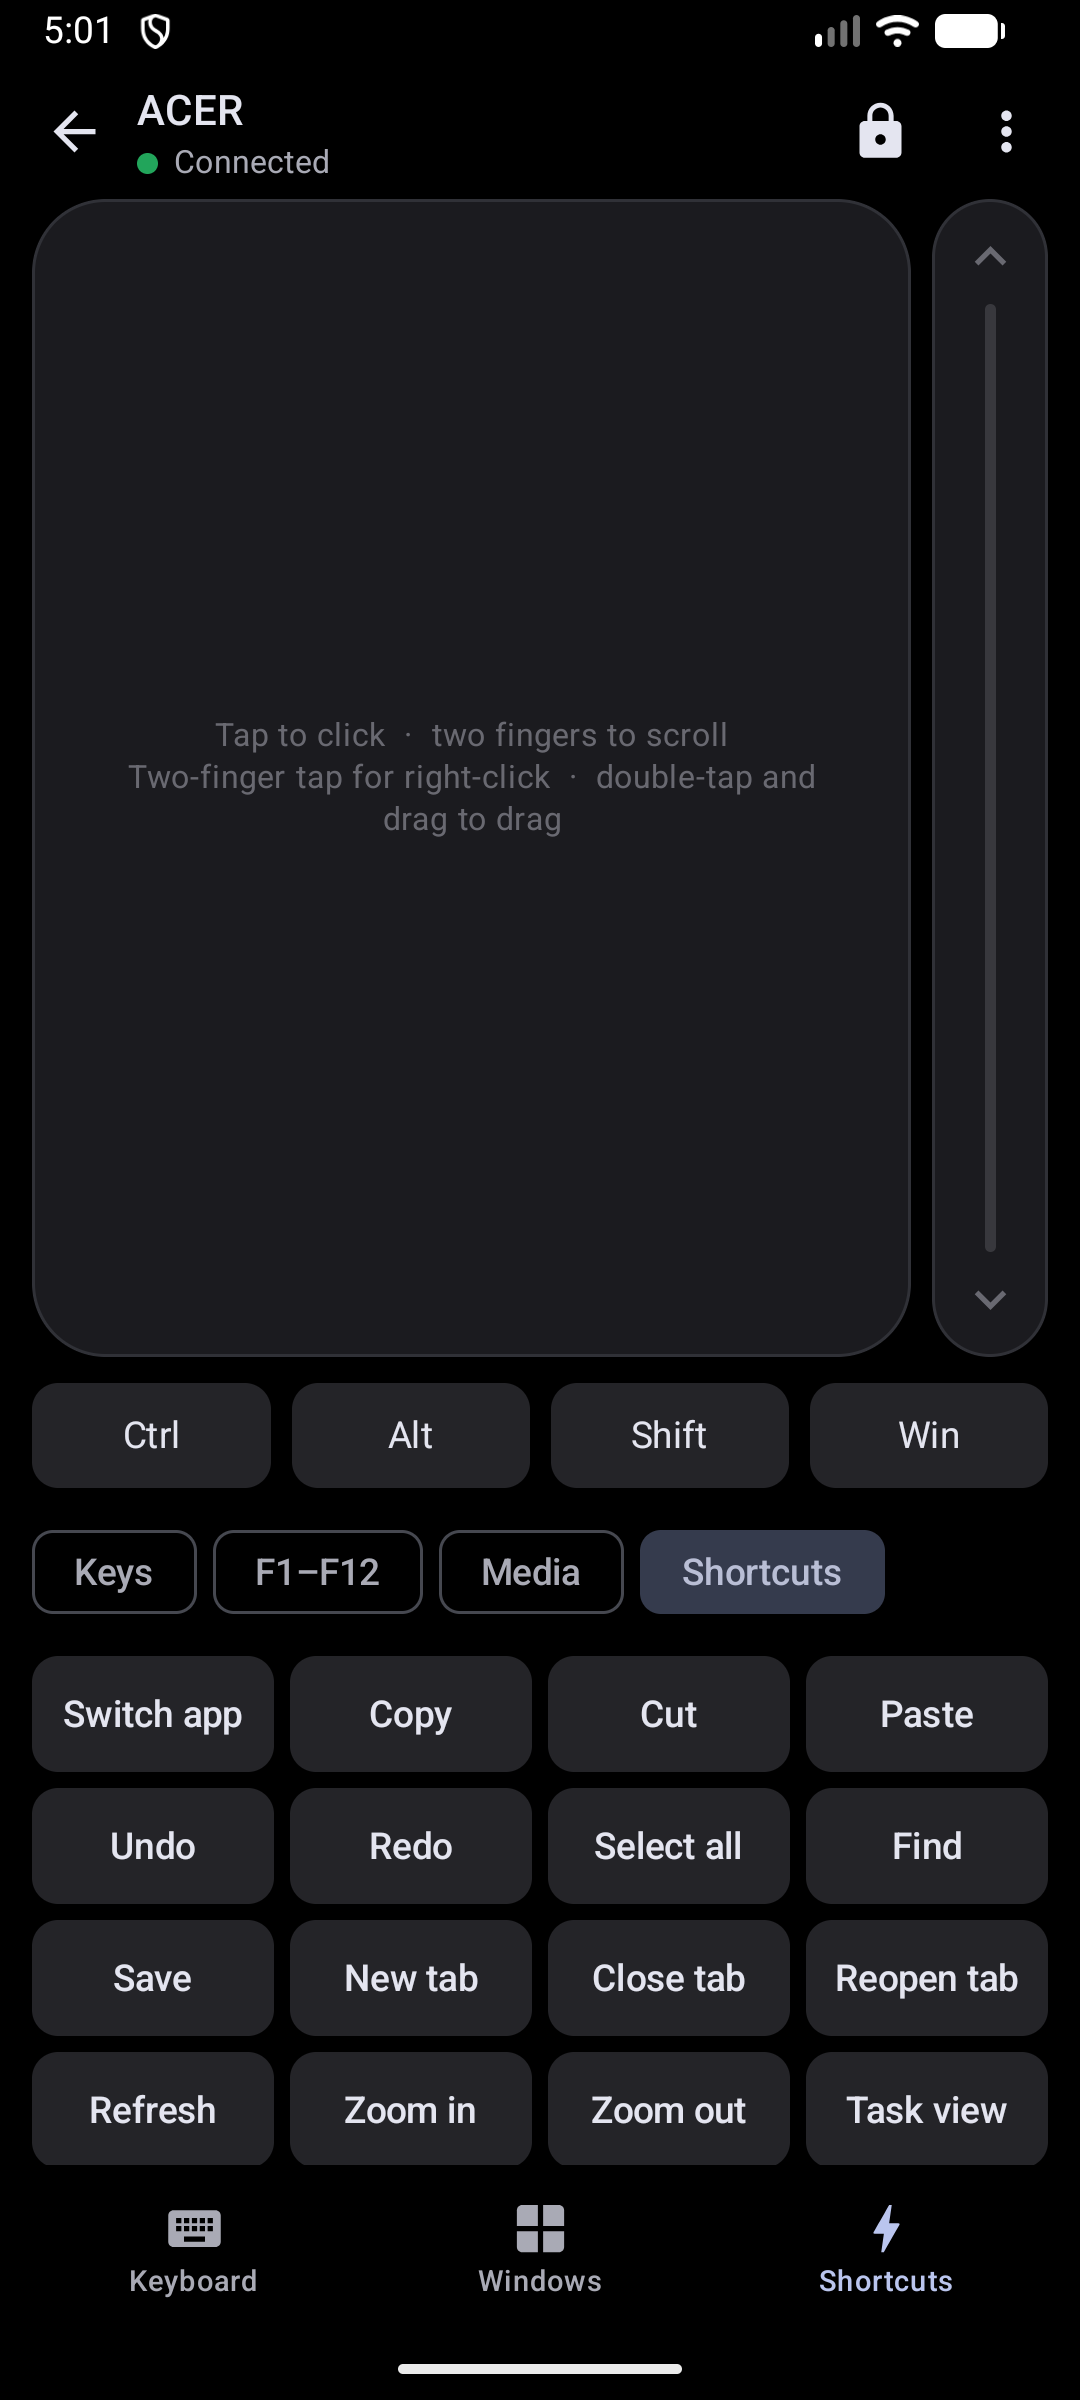
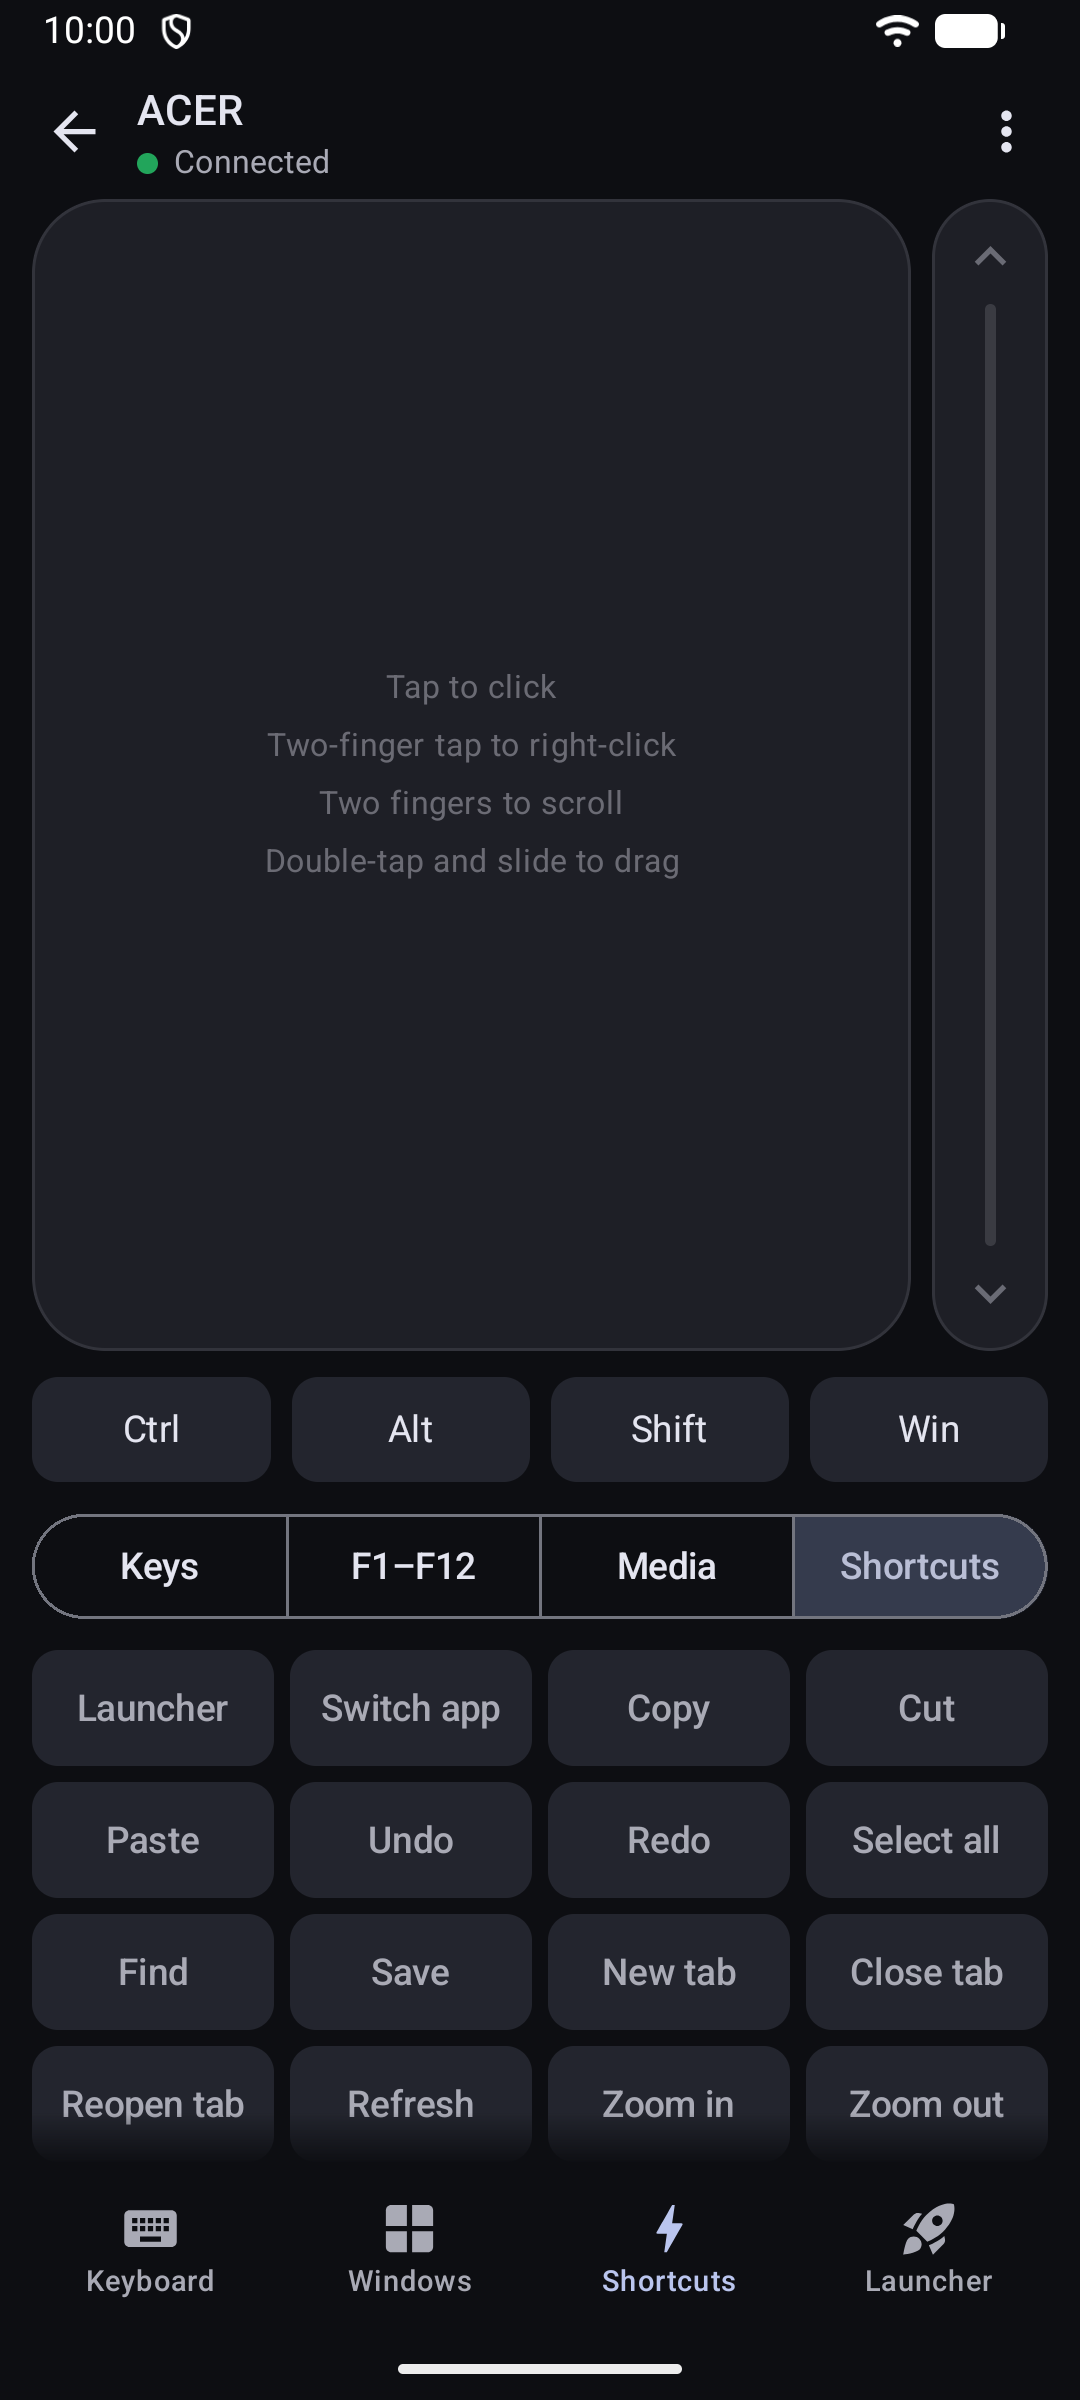
Release 1.1.0: bump versions, refresh screenshots and docs (#17)
- Bump the Android app to 1.1.0 (versionCode 2) and the Windows app to 1.1.0.0.
- Retake the README pictures from the current apps, and add the lock screen
  media controls and the shortcut editor.
- Document in-app updates, closing the keyboard on Enter, building, and how
  releases are put together.

diff --git a/windows/src/Program.cs b/windows/src/Program.cs
@@ -14,8 +14,8 @@ using System.Windows.Forms;
 [assembly: AssemblyTitle("RomCon")]
 [assembly: AssemblyProduct("RomCon")]
 [assembly: AssemblyDescription("Control this PC from your Android phone")]
-[assembly: AssemblyVersion("1.0.0.0")]
-[assembly: AssemblyFileVersion("1.0.0.0")]
+[assembly: AssemblyVersion("1.1.0.0")]
+[assembly: AssemblyFileVersion("1.1.0.0")]
 
 namespace RomCon
 {

diff --git a/docs/guide.md b/docs/guide.md
@@ -4,6 +4,7 @@ Everything the [README](../README.md) leaves out.
 
 - [Features](#features)
 - [Managing phones](#managing-phones)
+- [Updates](#updates)
 - [Tailscale](#tailscale)
 - [Security](#security)
 - [Limitations](#limitations)
@@ -22,14 +23,20 @@ Everything the [README](../README.md) leaves out.
 ### Bottom bar
 
 - Keyboard, Windows key and Shortcuts sit under the pad by default.
-- Choose your own buttons, up to five, and their order in Settings: Keys, Send text, Switch app, Task View, Show desktop, Esc, Enter, Copy, Paste, play/pause, volume, and Left / Right / Middle click (hold one and move with another finger to drag).
+- Choose your own buttons, up to five, and their order in Settings: Keys, Send text, Switch app, Task View, Show desktop, Esc, Enter, Copy, Paste, play/pause, volume, mute, and Left / Right / Middle click (hold one and move with another finger to drag).
 - Make your own buttons under Settings, Bottom bar, Your shortcuts. Each one presses a hotkey you pick on the PC, such as Alt+Space to open Flow Launcher or Raycast. It can also press several hotkeys one after another, like Ctrl+K then Ctrl+C, with a wait of up to a minute between any two: F12, half a second, then F8, say. While a button waits, it stays lit; tap it again to stop it. The keys you can pick are Ctrl, Alt, Shift and Win with any letter, number, F1–F24, symbol, number-pad, arrow, editing or media key. A modifier key can also be pressed on its own.
 - Give a button a name and an icon: one of the built-in icons, or a picture from your phone, such as the app's logo. A new button goes on the bar if there's room. Your buttons also appear at the start of the Shortcuts panel, so ones that don't fit on the bar are still a tap away.
+
+<p align="center">
+  <img src="images/phone-shortcut-editor.png" width="250" alt="Editing a shortcut named Launcher: it presses Alt+Space and has a rocket icon">
+</p>
+<p align="center"><em>A shortcut that opens a launcher with Alt+Space.</em></p>
 
 ### Keyboard
 
 - The phone keyboard types straight into the PC. Autocorrect is off and Backspace always reaches the PC.
 - A box above the phone keyboard shows what you type.
+- The phone keyboard closes when you press its Enter key, so the trackpad is back in reach. To type several lines, turn that off under Settings, Keyboard. Enter on a hardware keyboard never closes it.
 - Text is sent as Unicode, so accents, other scripts and emoji work whatever the PC's keyboard layout is.
 - Ctrl, Alt, Shift and Win latches: tap one for the next key, long-press to lock it.
 - Keys panel: Esc, Tab, arrows (hold to repeat), Home/End, PgUp/PgDn, Delete, F1–F12, media and volume keys.
@@ -67,6 +74,14 @@ Both apps offer System default, Light, Dark and OLED black. On the PC, the theme
 - **Revoke a phone**: click **Remove** next to it under *Paired phones*.
 - **Stop all control for a while**: click **Pause remote control** in the PC window. Phones also drop their media controls until you resume.
 
+## Updates
+
+Both apps look for a newer release on this repository's [releases page](https://github.com/mikep49/romcon/releases) and install it for you. Your settings and paired phones carry over.
+
+- **On the PC**, RomCon checks a few seconds after it starts. When there's a new version, a notification says so. Click it, or open the **Settings** tab, and click **Update to …**. RomCon downloads the new `RomCon.exe`, puts it in place of the old one and restarts. **Check for updates** on the Settings tab checks again. If RomCon can't change the folder it's in (for example a folder under `C:\Program Files` while it runs without administrator rights), it offers to open the download page instead.
+- **On the phone**, the app checks each time it opens. A new version shows a card on the home screen. Tap **Update**, or **Not now** to hide it until the app opens again. Settings, Updates, has the same and a **Check for updates** button. The app downloads the new APK and opens Android's installer on it. The first time, Android asks you to allow RomCon to install apps.
+- [Obtainium](https://obtainium.imranr.dev/) works as well, if you'd rather it kept the phone app up to date.
+
 ## Tailscale
 
 Install Tailscale on both devices and sign them in to the same tailnet. On the phone, add the PC by its Tailscale IP (`100.x.y.z`) or MagicDNS name. Nothing else is needed: Tailscale already encrypts the link, and RomCon adds its own TLS and pairing on top. Broadcast discovery doesn't cross Tailscale, which is why you add the PC by address.
@@ -79,6 +94,7 @@ If the phone can't reach the PC over Tailscale, check that Windows Firewall allo
 - **Encrypted.** All TCP traffic is TLS 1.2, and pointer movement sent over UDP is AES-256-GCM with a key the PC issues over that TLS connection. The PC makes its own certificate on first run (stored DPAPI-encrypted in `%APPDATA%\RomCon`). The phone pins that certificate when pairing and refuses any other, so a device impersonating the PC never sees your keystrokes. The matching *PC code* on both screens guards the first pairing.
 - **Administrator rights.** With *Always run as administrator* and *Start with Windows* both on, RomCon gets full rights at every sign-in without a prompt. Keep `RomCon.exe` in a folder only administrators can change, such as one under `C:\Program Files`, so another program can't swap it out first.
 - **Revocable.** Each phone gets its own random token. The PC stores only a hash of it, and removing the phone on the PC revokes it at once. Tokens are kept in the app's private storage and excluded from Android backups.
+- **Updates.** Both apps only ever ask GitHub about this repository's latest release, over HTTPS. A download whose SHA-256 doesn't match the one GitHub lists for that file is thrown away. Android also refuses an update that isn't signed with the same key as the installed app.
 
 ## Limitations
 
@@ -89,6 +105,15 @@ These are Windows rules, not bugs.
 - Some games read raw hardware input and may ignore injected mouse or keyboard events.
 
 ## Development
+
+### Building
+
+- **Windows app**: run `windows\build.ps1`. It compiles `windows\bin\RomCon.exe` against the .NET Framework 4.8 that comes with Windows, so it needs only a C# compiler: Visual Studio or its Build Tools with the C# workload, or the .NET SDK.
+- **Android app**: `cd android`, then `.\gradlew.bat assembleDebug`. It needs JDK 21 or newer (Android Studio's bundled one works) and the Android SDK. `assembleRelease` signs with the key described in `~/.romcon/keystore.properties` (`storeFile`, `storePassword`, `keyAlias`, `keyPassword`; `ROMCON_KEYSTORE_PROPERTIES` points elsewhere), or with the debug key if there's no such file.
+
+### Releases
+
+Tag a release `v<version>`, matching `versionName` in `android/app/build.gradle.kts` (raise `versionCode` too) and the assembly version in `windows/src/Program.cs`. Attach the two apps named exactly `RomCon.exe` and `RomCon.apk`: the README's download links, Obtainium and the apps' own updaters all look for those names on the latest release. Every APK must be signed with the same key, or Android won't install it over the previous one.
 
 ### Ports
 

diff --git a/README.md b/README.md
@@ -4,15 +4,17 @@ Use your Android phone as a wireless trackpad and keyboard for a Windows PC. It 
 
 RomCon is two small apps:
 
-- **The Windows app** sits in the tray and turns what the phone sends into mouse and keyboard input. It's a single exe of about 200 KB with no installer. It runs on Windows 10 and 11 as they come.
+- **The Windows app** sits in the tray and turns what the phone sends into mouse and keyboard input. It's a single exe of about 220 KB with no installer. It runs on Windows 10 and 11 as they come.
 - **The Android app** is the remote: a trackpad, your phone keyboard, and buttons for shortcuts and media keys. It needs Android 8.0 or newer.
 
 <p align="center">
-  <img src="docs/images/phone-trackpad.png" width="250" alt="The phone app connected to a PC: a trackpad with a scroll bar, and Keyboard, Windows and Shortcuts buttons below">
-  &nbsp;&nbsp;
-  <img src="docs/images/phone-shortcuts.png" width="250" alt="The phone app with the Shortcuts panel open: Ctrl, Alt, Shift and Win keys, and buttons such as Copy, Paste and Switch app">
+  <img src="docs/images/phone-trackpad.png" width="250" alt="The phone app connected to a PC: a trackpad with a scroll bar, and Keyboard, Windows, Shortcuts and a custom Launcher button below">
+  &nbsp;
+  <img src="docs/images/phone-shortcuts.png" width="250" alt="The phone app with the Shortcuts panel open: Ctrl, Alt, Shift and Win keys, and buttons such as Launcher, Switch app, Copy and Paste">
+  &nbsp;
+  <img src="docs/images/phone-lock-screen.jpg" width="250" alt="The phone's lock screen showing what the PC is playing, with its artwork, a pause button, a seek bar and the PC's volume">
 </p>
-<p align="center"><em>The phone app: the trackpad, and the shortcuts panel.</em></p>
+<p align="center"><em>The phone app: the trackpad, the shortcuts panel, and the PC's media controls on the lock screen.</em></p>
 
 <p align="center">
   <img src="docs/images/windows-app.png" width="720" alt="The RomCon window on the PC, showing a paired phone and the addresses a phone can connect to">
@@ -25,9 +27,10 @@ RomCon is two small apps:
 - **Keyboard.** The phone keyboard types straight into the PC, in any language, emoji included. There are Ctrl, Alt, Shift and Win keys, arrows, F-keys and common shortcuts.
 - **Media and system.** Play/pause, volume, switch app, show desktop and lock the PC.
 - **Media controls on the lock screen.** While the PC is playing something, the phone shows what it is, with play/pause, skip and the PC's volume, without unlocking it or opening the app.
-- **A bar you choose.** Put up to five buttons you use most under the trackpad, including your own: pick the hotkey a button presses (Alt+Space for your launcher, say) and give it an icon or a picture.
+- **A bar you choose.** Put up to five buttons you use most under the trackpad, including your own: pick the hotkey a button presses (Alt+Space for your launcher, say), or a few in a row with a wait between them, and give it an icon or a picture.
 - **Finds your PC.** A PC on the same Wi-Fi shows up by itself. Over Tailscale, add it by address.
 - **Private.** A phone has to be paired with a PIN shown on the PC, and everything it sends is encrypted.
+- **Keeps itself up to date.** Both apps tell you when a new version is out and install it for you.
 
 The [guide](docs/guide.md#features) lists every gesture, key and setting.
 
@@ -43,7 +46,7 @@ The [guide](docs/guide.md#features) lists every gesture, key and setting.
 
 Or download [RomCon.apk](https://github.com/mikep49/romcon/releases/latest/download/RomCon.apk) and open it on the phone. Android asks you to allow installing from your browser or file manager the first time.
 
-Every version is on the [releases page](https://github.com/mikep49/romcon/releases).
+Every version is on the [releases page](https://github.com/mikep49/romcon/releases). After that, both apps check for new versions themselves and offer to [update](docs/guide.md#updates).
 
 ### 2. Pair your phone
 
@@ -65,5 +68,5 @@ Windows itself blocks a few things:
 
 ## More
 
-- [Guide](docs/guide.md): all features, Tailscale, security, and notes for developers.
+- [Guide](docs/guide.md): all features, updates, Tailscale, security, and notes for developers.
 - [Protocol](docs/protocol.md): how the two apps talk to each other.
